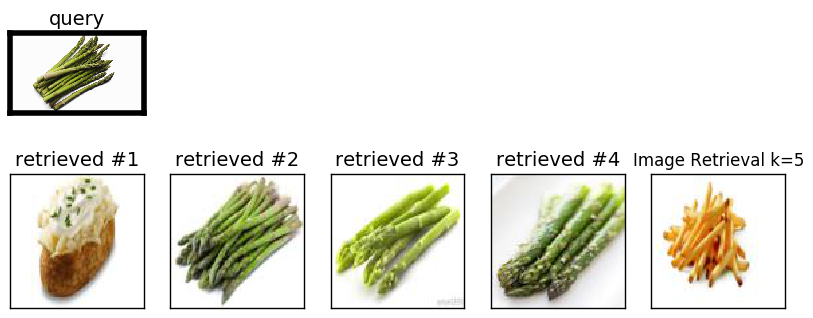
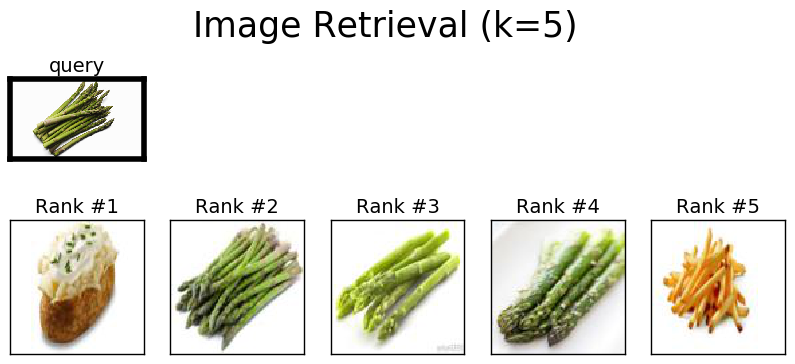
readme

Changed region(s): [[0.0, 0.4811, 0.9962, 0.9906], [0.0, 0.0283, 0.2113, 0.4528], [0.2415, 0.0283, 0.7245, 0.1415]]

diff --git a/image_retrieval/src/CV_plot_utils.py b/image_retrieval/src/CV_plot_utils.py
@@ -21,7 +21,8 @@ def plot_img(img, range=[0, 255]):
 # Plots images in 2 rows: top row is query, bottom row is answer
 def plot_query_retrieval(img_query, imgs_retrieval, outFile):
     n_retrieval = len(imgs_retrieval)
-    plt.figure(figsize=(2*n_retrieval, 4))
+    fig = plt.figure(figsize=(2*n_retrieval, 4))
+    fig.suptitle("Image Retrieval (k={})".format(n_retrieval), fontsize=25)
 
     # Plot query image
     ax = plt.subplot(2, n_retrieval, 0 + 1)
@@ -42,8 +43,7 @@ def plot_query_retrieval(img_query, imgs_retrieval, outFile):
         for axis in ['top', 'bottom', 'left', 'right']:
             ax.spines[axis].set_linewidth(1)  # set border thickness
             ax.spines[axis].set_color('black')  # set to black
-        ax.set_title("retrieved #%d" % (i+1), fontsize=14)  # set subplot title
-    plt.title("Image Retrieval k={}".format(n_retrieval))
+        ax.set_title("Rank #%d" % (i+1), fontsize=14)  # set subplot title
 
     if outFile is None:
         plt.show()
@@ -80,11 +80,11 @@ def plot_tsne(X, imgs, outFile):
 
         plt.xticks([]), plt.yticks([])
         if title is not None:
-            plt.title(title)
+            plt.title(title, fontsize=25)
 
     tsne = manifold.TSNE(n_components=2, init='pca', random_state=0)
     X_tsne = tsne.fit_transform(X)
-    plot_embedding(X_tsne, imgs, "t-SNE embedding of images")
+    plot_embedding(X_tsne, imgs, "t-SNE Embeddings")
     if outFile is None:
         plt.show()
     else:
@@ -95,10 +95,10 @@ def plot_tsne(X, imgs, outFile):
 def plot_reconstructions(imgs, imgs_reconstruct, outFile,
                          range_imgs=[0, 255],
                          range_imgs_reconstruct=[0, 1]):
-
     # Create plot to save
     assert len(imgs) == len(imgs_reconstruct)
-    plt.figure(figsize=(20, 4))
+    fig = plt.figure(figsize=(20, 4))
+    fig.suptitle("Image Reconstructions", fontsize=35)
     n = min(len(imgs), 10)
     for i in range(n):
 
@@ -117,7 +117,6 @@ def plot_reconstructions(imgs, imgs_reconstruct, outFile,
                    vmax=range_imgs_reconstruct[1])
         ax.get_xaxis().set_visible(False)
         ax.get_yaxis().set_visible(False)
-    plt.title("Image reconstructions")
 
     if outFile is None:
         plt.show()
